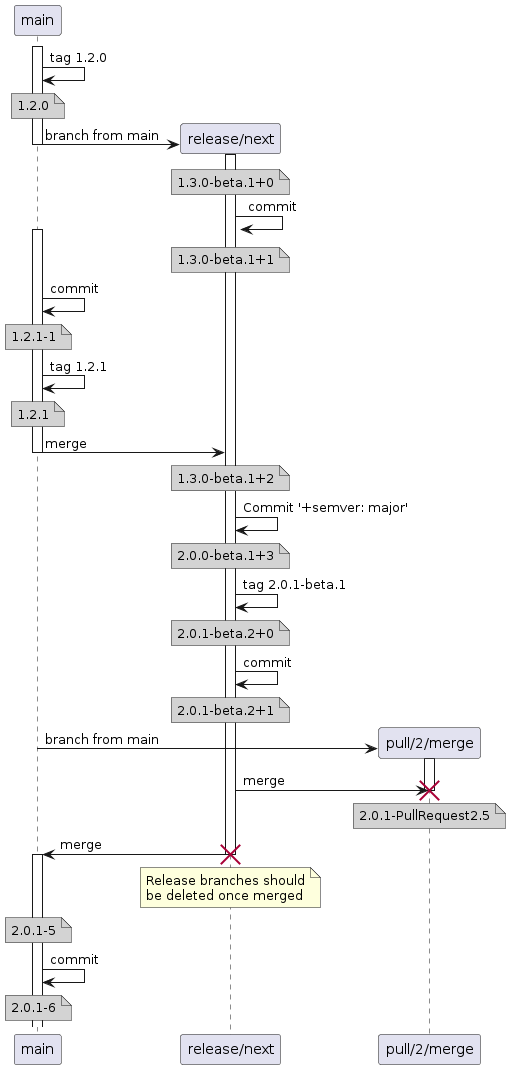
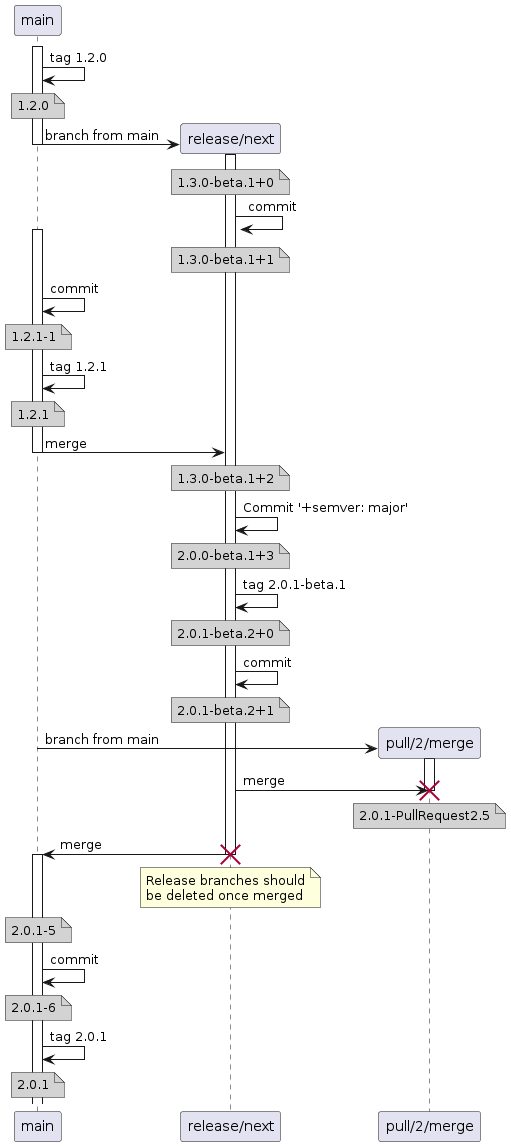
Update sequence diagrams

diff --git a/src/GitVersion.Core.Tests/IntegrationTests/DocumentationSamplesForGitFlow.cs b/src/GitVersion.Core.Tests/IntegrationTests/DocumentationSamplesForGitFlow.cs
@@ -75,6 +75,8 @@ public class DocumentationSamplesForGitFlow
         fixture.SequenceDiagram.Activate("main");
         fixture.MakeACommit();
         fixture.AssertFullSemver("2.0.0-6", configuration);
+        fixture.ApplyTag("2.0.0");
+        fixture.AssertFullSemver("2.0.0", configuration);
     }
 
     [TestCase(false)]
@@ -235,6 +237,94 @@ public class DocumentationSamplesForGitFlow
 
     [TestCase(false)]
     [TestCase(true)]
+    public void FeatureFromDevelopBranchWithMainline(bool withPullRequestIntoDevelop)
+    {
+        var configuration = GitFlowConfigurationBuilder.New
+            .WithNextVersion("1.2.0")
+            .WithVersionStrategies(VersionStrategies.ConfiguredNextVersion, VersionStrategies.Mainline)
+            .WithBranch("feature", _ => _.WithIncrement(IncrementStrategy.Minor))
+            .Build();
+
+        using var fixture = new EmptyRepositoryFixture();
+
+        fixture.SequenceDiagram.Participant("main");
+        fixture.SequenceDiagram.Participant("develop");
+
+        // GitFlow setup
+        fixture.SequenceDiagram.Activate("main");
+        fixture.Repository.MakeACommit();
+        fixture.ApplyTag("1.2.0");
+        fixture.AssertFullSemver("1.2.0", configuration);
+
+        // Branch from main to develop
+        fixture.BranchTo("develop", "develop");
+        fixture.SequenceDiagram.Activate("develop");
+        fixture.SequenceDiagram.Deactivate("main");
+        fixture.AssertFullSemver("1.3.0-alpha.0", configuration);
+
+        // Branch from develop to feature
+        const string branchName = "feature/foo";
+        fixture.BranchTo(branchName, "feature");
+        fixture.SequenceDiagram.Activate("feature");
+        fixture.SequenceDiagram.Deactivate("develop");
+        fixture.AssertFullSemver("1.3.0-foo.1+0", configuration);
+        fixture.MakeACommit();
+        fixture.AssertFullSemver("1.3.0-foo.1+1", configuration);
+
+        // Create hotfix on main branch
+        fixture.Checkout("main");
+        fixture.SequenceDiagram.Activate("main");
+        fixture.MakeACommit("+semver: minor");
+        fixture.AssertFullSemver("1.3.0-1", configuration);
+
+        // Merge main to develop branch
+        fixture.MergeTo("develop");
+        fixture.SequenceDiagram.Deactivate("main");
+        fixture.SequenceDiagram.Activate("develop");
+        fixture.AssertFullSemver("1.4.0-alpha.1", configuration);
+
+        // Merge develop to feature branch
+        fixture.Checkout("main");
+        fixture.MergeTo(branchName);
+        fixture.SequenceDiagram.Deactivate("develop");
+        fixture.AssertFullSemver("1.4.0-foo.1+2", configuration);
+
+        // Bump to major version increment
+        fixture.MakeACommit("+semver: major");
+        fixture.AssertFullSemver("2.0.0-foo.1+3", configuration);
+
+        // Create pre-release on feature branch
+        fixture.ApplyTag("2.1.0-foo.1");
+        fixture.AssertFullSemver("2.1.0-foo.2+0", configuration);
+        fixture.MakeACommit();
+        fixture.AssertFullSemver("2.1.0-foo.2+1", configuration);
+        fixture.Checkout("develop");
+
+        if (withPullRequestIntoDevelop)
+        {
+            // Create a PullRequest into develop
+            fixture.BranchTo("pull/2/merge", "pull");
+            fixture.SequenceDiagram.Activate("pull/2/merge");
+            fixture.MergeNoFF(branchName);
+            fixture.AssertFullSemver("2.1.0-PullRequest2.6", configuration);
+            fixture.Checkout("develop");
+            fixture.Remove("pull/2/merge");
+        }
+
+        // Merge feature into develop branch
+        fixture.MergeNoFF(branchName);
+        fixture.Remove(branchName);
+        fixture.SequenceDiagram.NoteOver("Feature branches should\r\nbe deleted once merged", branchName);
+        fixture.AssertFullSemver("2.1.0-alpha.6", configuration);
+
+        // Commit on develop branch
+        fixture.SequenceDiagram.Activate("develop");
+        fixture.MakeACommit();
+        fixture.AssertFullSemver("2.1.0-alpha.7", configuration);
+    }
+
+    [TestCase(false)]
+    [TestCase(true)]
     public void HotfixBranch(bool withPullRequestIntoMain)
     {
         var configuration = GitFlowConfigurationBuilder.New.Build();
@@ -301,6 +391,8 @@ public class DocumentationSamplesForGitFlow
         fixture.SequenceDiagram.Activate("main");
         fixture.MakeACommit();
         fixture.AssertFullSemver("2.0.0-6", configuration);
+        fixture.ApplyTag("2.0.0");
+        fixture.AssertFullSemver("2.0.0", configuration);
     }
 
     [TestCase(false)]
@@ -442,6 +534,8 @@ public class DocumentationSamplesForGitFlow
         fixture.SequenceDiagram.Activate("main");
         fixture.MakeACommit();
         fixture.AssertFullSemver("3.0.1-6", configuration);
+        fixture.ApplyTag("3.0.1");
+        fixture.AssertFullSemver("3.0.1", configuration);
     }
 
     [TestCase(false)]
@@ -583,6 +677,8 @@ public class DocumentationSamplesForGitFlow
         fixture.SequenceDiagram.Activate("main");
         fixture.MakeACommit();
         fixture.AssertFullSemver("2.0.1-6", configuration);
+        fixture.ApplyTag("2.0.1");
+        fixture.AssertFullSemver("2.0.1", configuration);
     }
 
     [TestCase(false)]
@@ -724,6 +820,8 @@ public class DocumentationSamplesForGitFlow
         fixture.SequenceDiagram.Activate("main");
         fixture.MakeACommit();
         fixture.AssertFullSemver("3.0.1-6", configuration);
+        fixture.ApplyTag("3.0.1");
+        fixture.AssertFullSemver("3.0.1", configuration);
     }
 
     [TestCase(false)]
@@ -852,13 +950,15 @@ public class DocumentationSamplesForGitFlow
         // Create hotfix on main branch
         fixture.MakeACommit();
         fixture.AssertFullSemver("1.3.1-1", configuration);
+        fixture.ApplyTag("1.3.1");
+        fixture.AssertFullSemver("1.3.1", configuration);
 
         // Merge main to release branch
         fixture.MergeTo(branchName);
         fixture.SequenceDiagram.Deactivate("main");
-        fixture.AssertFullSemver("1.4.0-alpha.3", configuration);
+        fixture.AssertFullSemver("1.4.0-alpha.2", configuration);
         fixture.MakeACommit("+semver: major");
-        fixture.AssertFullSemver("2.0.0-alpha.4", configuration);
+        fixture.AssertFullSemver("2.0.0-alpha.3", configuration);
 
         // Create pre-release on release branch
         fixture.ApplyTag("2.1.0-alpha.1");
@@ -873,7 +973,7 @@ public class DocumentationSamplesForGitFlow
             fixture.BranchTo("pull/2/merge", "pull");
             fixture.SequenceDiagram.Activate("pull/2/merge");
             fixture.MergeNoFF(branchName);
-            fixture.AssertFullSemver("2.1.0-PullRequest2.6", configuration);
+            fixture.AssertFullSemver("2.1.0-PullRequest2.5", configuration);
             fixture.Checkout("main");
             fixture.Remove("pull/2/merge");
         }
@@ -881,12 +981,14 @@ public class DocumentationSamplesForGitFlow
         // Merge develop into main branch
         fixture.MergeNoFF(branchName);
         fixture.SequenceDiagram.Deactivate(branchName);
-        fixture.AssertFullSemver("2.1.0-6", configuration);
+        fixture.AssertFullSemver("2.1.0-5", configuration);
 
         // Commit on main branch
         fixture.SequenceDiagram.Activate("main");
         fixture.MakeACommit();
-        fixture.AssertFullSemver("2.1.0-7", configuration);
+        fixture.AssertFullSemver("2.1.0-6", configuration);
+        fixture.ApplyTag("2.1.0");
+        fixture.AssertFullSemver("2.1.0", configuration);
     }
 
     [TestCase(false)]
@@ -1057,10 +1159,14 @@ public class DocumentationSamplesForGitFlow
         fixture.Checkout("support/1.x");
         fixture.MakeACommit();
         fixture.AssertFullSemver("1.2.4-1", configuration);
+        fixture.ApplyTag("1.2.4");
+        fixture.AssertFullSemver("1.2.4", configuration);
 
         fixture.Checkout("main");
         fixture.MergeNoFF("support/1.x");
         fixture.AssertFullSemver("2.0.2-2", configuration);
+        fixture.ApplyTag("2.0.2");
+        fixture.AssertFullSemver("2.0.2", configuration);
     }
 
     [TestCase(false)]
